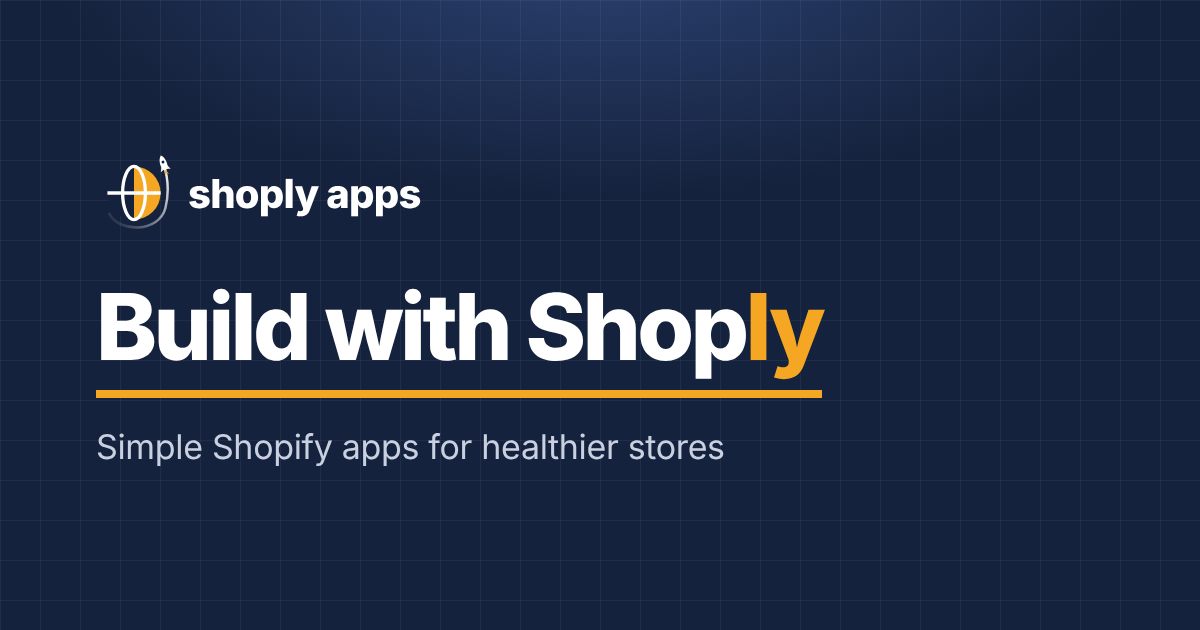
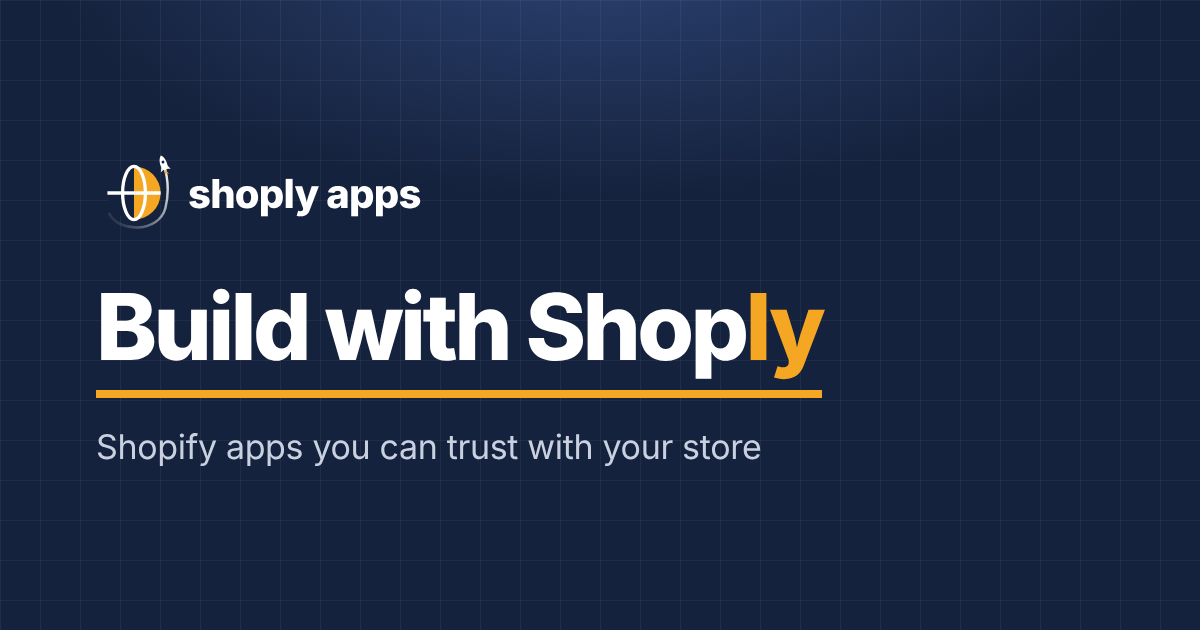
New homepage slogan: Shopify apps you can trust with your store
Replaces "Simple Shopify apps for healthier stores" in the headline, page
title, meta description, share title and share image. The hero text now
backs it up: nothing changes without your say, Shopify's own tools only, no
trackers, every change can be undone.

Claude-Session: https://claude.ai/code/session_0163fMWbWDaVjn4Z6UBBR3KD

Changed region(s): [[0.0925, 0.6937, 0.6475, 0.754]]

diff --git a/index.html b/index.html
@@ -3,8 +3,8 @@
 <head>
   <meta charset="utf-8">
   <meta name="viewport" content="width=device-width, initial-scale=1">
-  <title>Shoply Apps · Simple Shopify apps for healthier stores</title>
-  <meta name="description" content="Simple Shopify apps that work inside your admin. Shoply: Item Scan &amp; Analytics finds products costing you money, plus free guides for Shopify stores.">
+  <title>Shoply Apps · Shopify apps you can trust with your store</title>
+  <meta name="description" content="Shopify apps you can trust: nothing changes without your say, no trackers, every change can be undone. Item Scan &amp; Analytics finds what costs you money.">
   <link rel="icon" href="assets/shoply-apps-favicon.svg" type="image/svg+xml">
   <link rel="icon" href="/assets/favicon-96.png" sizes="96x96" type="image/png">
   <link rel="icon" href="/assets/favicon-48.png" sizes="48x48" type="image/png">
@@ -15,8 +15,8 @@
   <meta name="theme-color" content="#15223d">
   <meta property="og:type" content="website">
   <meta property="og:site_name" content="Shoply Apps">
-  <meta property="og:title" content="Shoply Apps · Simple Shopify apps for healthier stores">
-  <meta property="og:description" content="Focused Shopify apps that work inside your admin. Our first app, Shoply: Item Scan &amp; Analytics, finds the products quietly costing you money.">
+  <meta property="og:title" content="Shoply Apps · Shopify apps you can trust with your store">
+  <meta property="og:description" content="Nothing changes without your say: no trackers, data in the EU, every change can be undone. Our first app finds the products quietly costing you money.">
   <meta property="og:url" content="https://shoplyapps.com/">
   <meta property="og:image" content="https://shoplyapps.com/assets/og-image.png">
   <meta property="og:image:width" content="1200">
@@ -424,8 +424,8 @@
       <div class="wrap hero-inner">
         <div class="hero-copy">
         <a class="pill" href="#item-scan"><b>NEW</b> Our first app is coming soon →</a>
-        <h1>Simple Shopify apps for <em>healthier stores</em></h1>
-        <p class="lead">Shoply Apps builds focused apps for Shopify merchants. Each one does one job well, works right inside your Shopify admin and uses only Shopify's own tools.</p>
+        <h1>Shopify apps you can <em>trust with your store</em></h1>
+        <p class="lead">Nothing changes without your say. Our apps work right inside your Shopify admin, use only Shopify's own tools, add no trackers, and let you undo every change.</p>
         <div class="hero-actions">
           <a class="btn btn-amber" href="/apps/">See our apps <svg aria-hidden="true"><use href="#i-arrow"/></svg></a>
           <a class="btn btn-ghost" href="mailto:info@shoplyapps.com?subject=Keep%20me%20posted%20about%20Shoply%20Apps">Get launch news</a>
